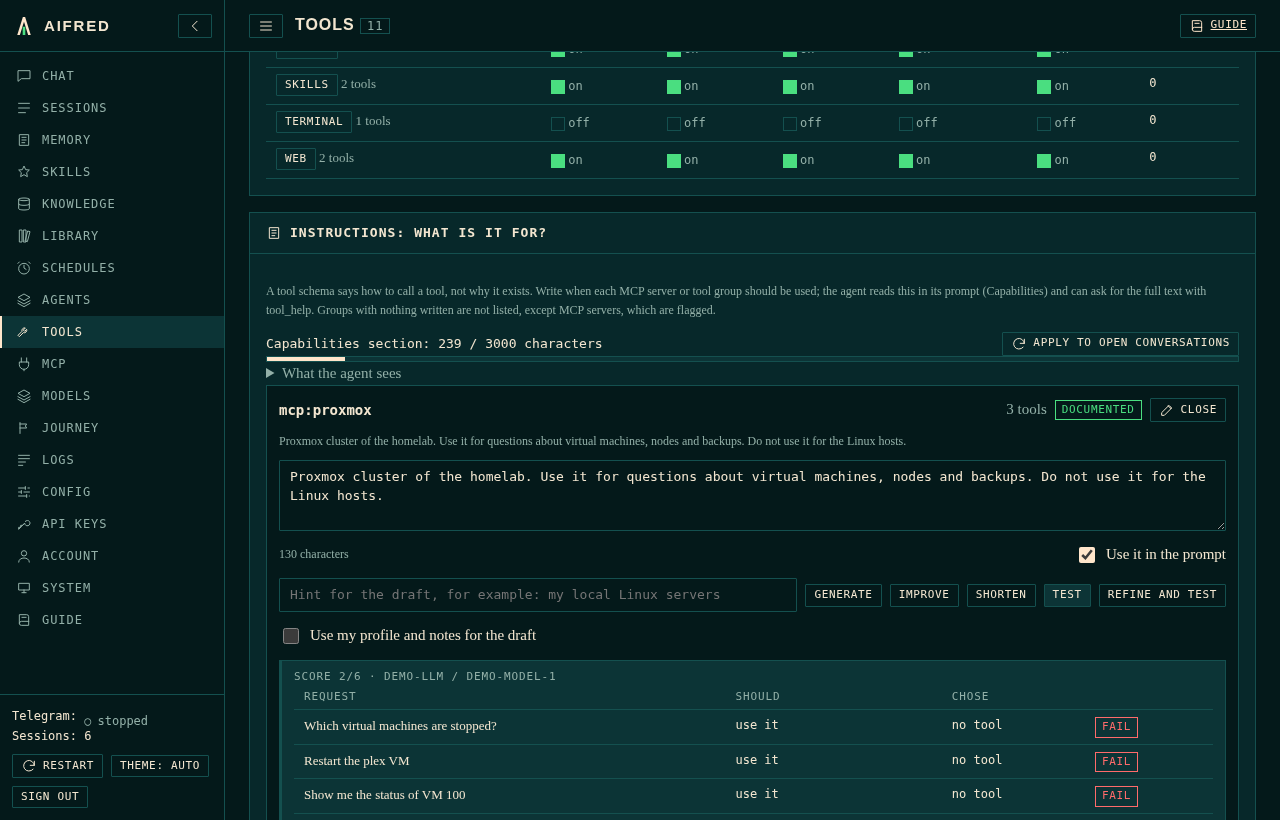
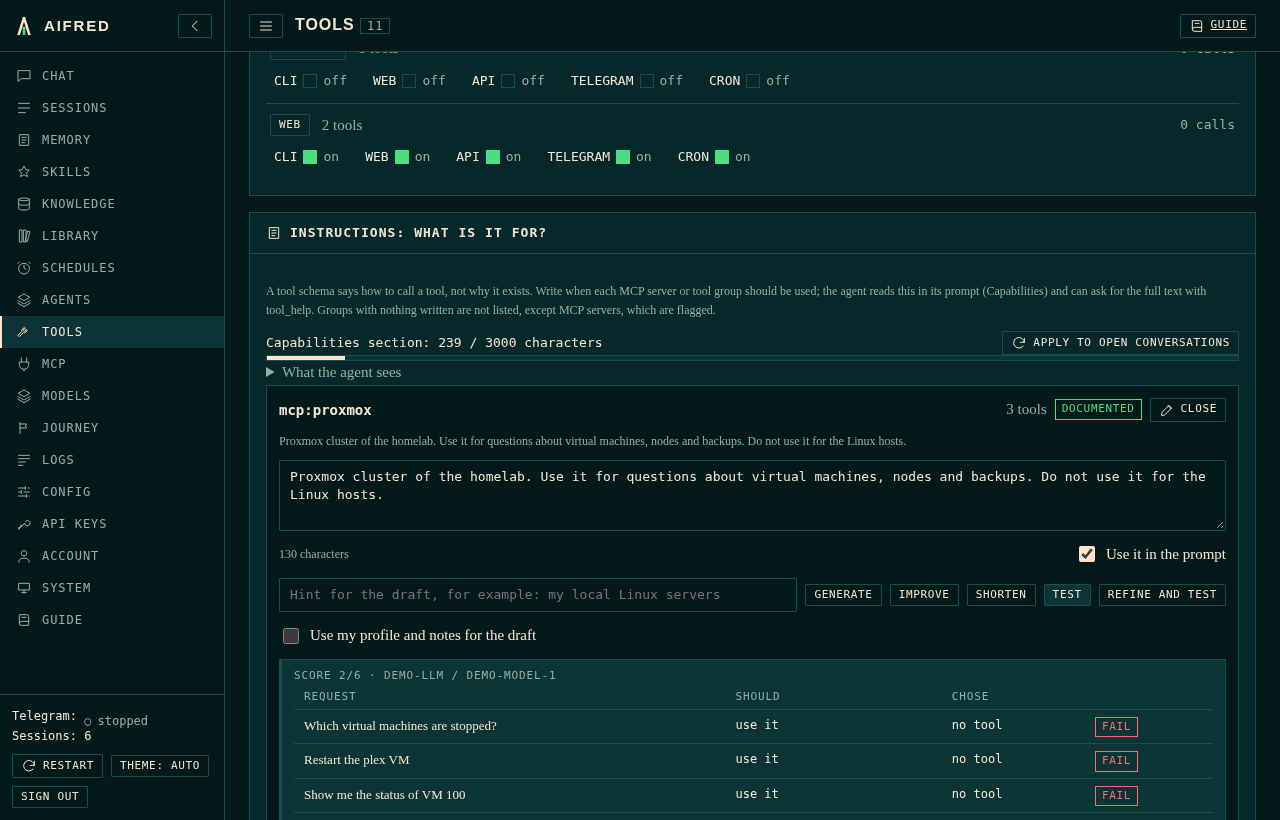
Responsive dashboard: expandable history lists (schedules, sub-agents, knowledge evaluations, session search), toolset cards on Tools; guide and screenshots; release 0.6.1

diff --git a/aifred/web/static/js/pages/knowledge.js b/aifred/web/static/js/pages/knowledge.js
@@ -1,5 +1,5 @@
 // Knowledge: collections, documents with state, upload, URLs, scan, re-index and a test search that shows how each hit was found (spec 9.4).
-import { ago, attempt, badge, bytes, button, busy, clear, dangerButton, del, empty, field, get, h, number, panel, post, put, skeleton, state, toast } from "../core.js";
+import { ago, attempt, badge, bytes, button, busy, clear, dangerButton, del, disclosure, empty, field, get, h, number, panel, post, put, skeleton, state, toast } from "../core.js";
 
 const STATUS_KIND = { ready: "ok", queued: "", indexing: "warn", waiting: "warn", partial: "warn", error: "err" };
 const ACCEPT = ".md,.txt,.rst,.html,.json,.csv,.yaml,.yml,.pdf,.docx,.xlsx,.pptx,.odt,.ods,.odp,.jpg,.jpeg,.png,.webp";
@@ -120,6 +120,7 @@ export default {
     function qualityPanel(collections, docs) {
       const box = h("div", { class: "stack" });
       const list = h("div", {}), results = h("div", {}), history = h("div", {}), suggestions = h("div", {});
+      const openRuns = new Set();   // evaluation rows whose details are open, kept across redraws
       const question = h("input", { type: "text", placeholder: "A question the documents should answer", maxlength: "300", "aria-label": "Question" });
       const source = h("input", { type: "text", placeholder: "Which document (name or part of it)", maxlength: "300", list: "golden-sources", "aria-label": "Expected document" });
       const phrase = h("input", { type: "text", placeholder: "Optional: a phrase the passage must contain", maxlength: "200", "aria-label": "Expected phrase" });
@@ -143,9 +144,15 @@ export default {
         clear(history);
         if (!rows.length) return;
         const rank = (r, i) => { const before = rows.slice(i + 1).find((x) => x.variant === r.variant && x.k === r.k); return before ? r.recall - before.recall : null; };
-        history.append(h("div", { class: "label" }, "Earlier runs"), h("table", {}, h("thead", {}, h("tr", {}, ["When", "Label", "Search", "Counted", "Recall", "MRR", "Questions"].map((x) => h("th", {}, x)))),
-          h("tbody", {}, rows.slice(0, 16).map((r, i) => { const d = rank(r, i); return h("tr", {}, h("td", {}, ago(r.ts)), h("td", {}, r.label || "–"), h("td", { class: "mono" }, r.variant), h("td", {}, `top ${r.k}`),
-            h("td", { class: "mono" }, pct(r.recall), d === null || d === 0 ? "" : h("span", { class: d > 0 ? "good" : "bad" }, ` ${d > 0 ? "▲" : "▼"}${Math.abs(Math.round(d * 100))}`)), h("td", { class: "mono" }, r.mrr.toFixed(2)), h("td", {}, String(r.total))); }))));
+        history.append(h("div", { class: "label" }, "Earlier runs"), ...rows.slice(0, 16).map((r, i) => {
+          const d = rank(r, i);
+          const key = `${r.ts}:${r.variant}:${r.k}`;
+          return disclosure(key, openRuns,
+            [h("span", { class: "muted" }, ago(r.ts)), h("span", {}, r.label || "–"), h("span", { class: "mono" }, r.variant), h("span", { class: "mono" }, `top ${r.k}`),
+              h("span", { class: "mono" }, pct(r.recall), d === null || d === 0 ? "" : h("span", { class: d > 0 ? "good" : "bad" }, ` ${d > 0 ? "▲" : "▼"}${Math.abs(Math.round(d * 100))}`)), h("span", { class: "mono" }, `MRR ${r.mrr.toFixed(2)}`)],
+            () => [h("div", { class: "hint" }, `${r.total} questions`),
+              r.misses.length ? h("div", {}, h("span", { class: "label" }, "Missed"), h("div", { class: "pre" }, r.misses.join("\n"))) : h("div", { class: "hint" }, "Nothing missed.")]);
+        }));
       };
       const add = button("Add question", async () => {
         if (!question.value.trim()) return;

diff --git a/aifred/web/static/js/pages/tools.js b/aifred/web/static/js/pages/tools.js
@@ -17,21 +17,21 @@ export default {
 
     function draw() {
       clear(body);
-      const rows = [];
-      for (const ts of data.toolsets) {
-        rows.push(h("tr", { class: "row-hover" },
-          h("td", {}, h("button", { class: "btn btn-sm", type: "button", "aria-expanded": String(open.has(ts.name)), onclick: () => { open.has(ts.name) ? open.delete(ts.name) : open.add(ts.name); draw(); } }, ts.name), " ", h("span", { class: "muted" }, `${ts.tools.length} tools`)),
-          ...data.gateways.map((g) => h("td", {}, h("button", {
+      const cards = data.toolsets.map((ts) => {
+        const isOpen = open.has(ts.name);
+        return h("div", { class: "tool-card" },
+          h("div", { class: "tool-card-head" },
+            h("button", { class: "btn btn-sm", type: "button", "aria-expanded": String(isOpen), onclick: () => { isOpen ? open.delete(ts.name) : open.add(ts.name); draw(); } }, ts.name),
+            h("span", { class: "muted" }, `${ts.tools.length} tools`),
+            h("span", { class: "mono muted grow" }, `${number(ts.calls)} calls`)),
+          h("div", { class: "tool-card-gw" }, data.gateways.map((g) => h("button", {
             class: "switch-btn", type: "button", role: "switch", "aria-checked": String(Boolean(ts.enabled[g])), "aria-label": `${ts.name} for ${g}`, title: `Turn ${ts.name} ${ts.enabled[g] ? "off" : "on"} for ${g}`,
             onclick: async () => { if (await attempt(() => put(`/api/toolsets/${encodeURIComponent(ts.name).replace(/%3A/gi, ":")}`, { gateways: [g], on: !ts.enabled[g] }))) { data = await get("/api/tools"); draw(); } },
-          }, h("span", { class: `switch${ts.enabled[g] ? " on" : ""}` }), " ", h("span", { class: "muted mono" }, ts.enabled[g] ? "on" : "off")))),
-          h("td", { class: "mono" }, number(ts.calls))));
-        if (open.has(ts.name)) {
-          rows.push(h("tr", {}, h("td", { colspan: String(data.gateways.length + 2) }, ts.tools.map((t) => h("div", { class: "row" },
-            h("span", { class: "mono" }, t.name), t.restricted_ok ? badge("open bot ok") : null, !t.available ? badge("not available now", "warn") : null, h("span", { class: "muted" }, t.description), h("span", { class: "mono" }, `${t.calls} calls`))))));
-        }
-      }
-      body.append(panel("Toolsets", "tools", data.toolsets.length ? h("table", {}, h("thead", {}, h("tr", {}, ["Toolset", ...data.gateways, "Calls"].map((x) => h("th", {}, x)))), h("tbody", {}, rows)) : empty("No tool registered.")));
+          }, h("span", { class: "mono" }, g), " ", h("span", { class: `switch${ts.enabled[g] ? " on" : ""}` }), " ", h("span", { class: "muted mono" }, ts.enabled[g] ? "on" : "off")))),
+          isOpen ? h("div", { class: "tool-detail" }, ts.tools.map((t) => h("div", { class: "row" },
+            h("span", { class: "mono" }, t.name), t.restricted_ok ? badge("open bot ok") : null, !t.available ? badge("not available now", "warn") : null, h("span", { class: "muted" }, t.description), h("span", { class: "mono" }, `${t.calls} calls`)))) : null);
+      });
+      body.append(panel("Toolsets", "tools", data.toolsets.length ? h("div", { class: "tool-cards" }, cards) : empty("No tool registered.")));
     }
     // Instructions: what each MCP server, tool group and tool is for ------------------------------------
 

diff --git a/aifred/web/static/js/pages/agents.js b/aifred/web/static/js/pages/agents.js
@@ -2,7 +2,7 @@
 import { saveButton } from "../libsave.js";
 import { toolsetSwitches } from "../toolsets.js";
 import { assistButtons } from "../assist.js";
-import { attempt, badge, busy, button, clear, dangerButton, del, empty, field, get, h, panel, post, put, skeleton, ago } from "../core.js";
+import { attempt, badge, busy, button, clear, dangerButton, del, disclosure, empty, field, get, h, panel, post, put, skeleton, ago } from "../core.js";
 
 const STATUS = { ok: "ok", error: "err", running: "warn" };
 
@@ -11,6 +11,7 @@ export default {
     let editing = null;      // agent name being edited, "" for a new one
     let opened = null;       // agent whose history is open
     let testing = null;      // agent with the test box open
+    const openRuns = new Set();   // runs whose details are open, kept across redraws
     const body = h("div", {});
     root.append(body);
 
@@ -66,12 +67,14 @@ export default {
       clear(into);
       if (!runs.length) into.append(h("div", { class: "hint" }, "No run yet."));
       for (const r of runs) {
-        into.append(h("div", { class: "item" },
-          h("div", { class: "item-head" }, badge(r.status, STATUS[r.status] || ""), h("span", { class: "muted" }, ago(r.started)), r.tokens ? badge(`${r.tokens} tokens`) : null, h("span", { class: "mono muted" }, r.session_id)),
-          h("div", { class: "hint" }, `task: ${r.task.slice(0, 300)}`),
-          r.error ? h("div", { class: "notice err" }, r.error) : null,
-          r.output ? h("div", { class: "pre" }, r.output) : null,
-          r.output && r.status === "ok" ? saveButton(() => ({ content: r.output, prompt: r.task, source: "agent", sourceRef: r.session_id })) : null));
+        const key = `${name}:${r.started}:${r.session_id}`;
+        into.append(disclosure(key, openRuns,
+          [badge(r.status, STATUS[r.status] || ""), h("span", { class: "muted" }, ago(r.started)), r.tokens ? badge(`${r.tokens} tokens`) : null, h("span", { class: "disc-preview" }, (r.error || r.output || r.task).split("\n")[0].slice(0, 160))],
+          () => [h("div", { class: "hint" }, `task: ${r.task.slice(0, 300)}`),
+            r.error ? h("div", { class: "notice err" }, r.error) : null,
+            r.output ? h("div", { class: "pre" }, r.output) : null,
+            h("div", { class: "mono muted" }, r.session_id),
+            r.output && r.status === "ok" ? saveButton(() => ({ content: r.output, prompt: r.task, source: "agent", sourceRef: r.session_id })) : null]));
       }
     }
 

diff --git a/aifred/web/static/js/pages/sessions.js b/aifred/web/static/js/pages/sessions.js
@@ -1,5 +1,5 @@
 // Sessions: overview of the platforms and recent conversations, and full-text history search (spec 10.5).
-import { ago, attempt, badge, button, clear, dangerButton, del, empty, field, get, h, icon, number, panel, put, skeleton, store } from "../core.js";
+import { ago, attempt, badge, button, clear, dangerButton, del, disclosure, empty, field, get, h, icon, number, panel, put, skeleton, store } from "../core.js";
 import { marked } from "../md.js";
 
 export function exportMarkdown(id, messages) {
@@ -24,6 +24,7 @@ export default {
     let view = store("sessions.view") === "history" ? "history" : "overview";
     let source = "";
     let query = "";
+    const openHits = new Set();   // search hits whose text is open, kept across redraws
     const body = h("div", {});
     root.append(skeleton(4));
 
@@ -86,8 +87,10 @@ export default {
         const rows = await attempt(() => get(`/api/search?q=${encodeURIComponent(query)}&limit=50${src ? `&source=${encodeURIComponent(src)}` : ""}`)) || [];
         if (!rows.length) results.append(empty("Nothing found."));
         for (const r of rows) {
-          results.append(h("div", { class: "srow row-hover" }, h("div", { class: "main-col", role: "link", tabindex: "0", onclick: () => { location.hash = `#/chat?s=${encodeURIComponent(r.session_id)}`; } },
-            h("div", { class: "title" }, r.title || r.session_id), h("div", { class: "mono muted" }, `${r.source} · ${r.role} · ${ago(r.ts)}`), h("div", {}, marked(r.snippet)))));
+          const key = `${r.session_id}:${r.ts}:${r.role}`;
+          results.append(disclosure(key, openHits,
+            [h("span", { class: "disc-title" }, r.title || r.session_id), h("span", { class: "mono muted" }, `${r.source} · ${r.role} · ${ago(r.ts)}`)],
+            () => [h("div", {}, marked(r.snippet)), button("Open conversation", () => { location.hash = `#/chat?s=${encodeURIComponent(r.session_id)}`; }, { small: true })]));
         }
       };
       input.addEventListener("keydown", (e) => { if (e.key === "Enter") run(); });

diff --git a/aifred/web/static/js/pages/schedules.js b/aifred/web/static/js/pages/schedules.js
@@ -1,6 +1,6 @@
 // Schedules: recurring tasks the agent runs on its own, with the result delivered on Telegram.
 import { toolsetSwitches } from "../toolsets.js";
-import { attempt, badge, busy, button, clear, dangerButton, del, empty, field, get, h, panel, post, put, skeleton, ago } from "../core.js";
+import { attempt, badge, busy, button, clear, dangerButton, del, disclosure, empty, field, get, h, panel, post, put, skeleton, ago } from "../core.js";
 
 const STATUS = { ok: "ok", error: "err", running: "warn", missed: "warn" };
 
@@ -8,6 +8,7 @@ export default {
   async render(root, ctx) {
     let editing = null;      // task name being edited, "" for a new one
     let opened = null;       // task whose history is open
+    const openRuns = new Set();   // runs whose details are open, kept across redraws
     const body = h("div", {});
     root.append(body);
 
@@ -52,10 +53,10 @@ export default {
       clear(into);
       if (!runs.length) into.append(h("div", { class: "hint" }, "No run yet."));
       for (const r of runs) {
-        into.append(h("div", { class: "item" },
-          h("div", { class: "item-head" }, badge(r.status, STATUS[r.status] || ""), h("span", { class: "muted" }, ago(r.started)), r.delivered ? badge("delivered", "ok") : null, r.session_id ? h("span", { class: "mono muted" }, r.session_id) : null),
-          r.error ? h("div", { class: "notice err" }, r.error) : null,
-          r.output ? h("div", { class: "pre" }, r.output) : null));
+        const key = `${name}:${r.started}:${r.session_id}`;
+        into.append(disclosure(key, openRuns,
+          [badge(r.status, STATUS[r.status] || ""), h("span", { class: "muted" }, ago(r.started)), r.delivered ? badge("delivered", "ok") : null, h("span", { class: "disc-preview" }, (r.error || r.output || "").split("\n")[0].slice(0, 160))],
+          () => [r.error ? h("div", { class: "notice err" }, r.error) : null, r.output ? h("div", { class: "pre" }, r.output) : null, r.session_id ? h("div", { class: "mono muted" }, r.session_id) : null]));
       }
     }
 

diff --git a/aifred/web/static/app.css b/aifred/web/static/app.css
@@ -282,3 +282,26 @@ mark { background: var(--surface-2); color: var(--accent); font-weight: 700; }
 .save-form { display: grid; gap: 8px; margin-top: 8px; padding: 10px; border: 1px solid var(--line); background: var(--surface-2); }
 .save-form .row > input { flex: 1 1 12em; }
 .msg-actions { margin-top: 6px; }
+
+/* Expandable history rows */
+.disc { border-bottom: 1px solid var(--line); min-width: 0; }
+.disc:last-child { border-bottom: 0; }
+.disc-head { display: flex; align-items: center; gap: 8px; flex-wrap: wrap; width: 100%; padding: 8px 4px; border: 0; background: none; text-align: left; cursor: pointer; }
+.disc-head:hover { background: var(--surface-2); }
+.disc-head .caret { flex: none; width: 1em; font: 12px var(--font-mono); color: var(--muted); }
+.disc-preview { flex: 1 1 12em; min-width: 0; overflow: hidden; text-overflow: ellipsis; white-space: nowrap; color: var(--muted); font-size: 13px; }
+.disc-body { display: grid; gap: 8px; min-width: 0; padding: 4px 4px 14px 25px; }
+.disc-body[hidden] { display: none; }
+.disc-body .pre { max-height: 480px; overflow: auto; }
+
+/* Toolset cards (Tools page) */
+.tool-cards { display: grid; min-width: 0; }
+.tool-card { padding: 10px 4px; border-bottom: 1px solid var(--line); display: grid; gap: 8px; min-width: 0; }
+.tool-card:last-child { border-bottom: 0; }
+.tool-card-head { display: flex; align-items: center; flex-wrap: wrap; gap: 8px 12px; }
+.tool-card-head .grow { text-align: right; }
+.tool-card-gw { display: flex; flex-wrap: wrap; gap: 8px 18px; }
+.tool-card-gw .switch-btn { display: inline-flex; align-items: center; gap: 6px; }
+.tool-detail { display: grid; gap: 6px; padding-top: 4px; }
+.tool-detail .row { align-items: baseline; }
+.disc-title { font-size: 15px; font-family: var(--font-display); overflow-wrap: anywhere; flex: 1 1 14em; min-width: 0; }

diff --git a/aifred/web/static/js/core.js b/aifred/web/static/js/core.js
@@ -176,6 +176,24 @@ export function badge(text, kind = "") { return h("span", { class: `tag ${kind}`
 
 export function empty(text, action) { return h("div", { class: "empty" }, h("p", {}, text), action); }
 
+/** One row of a history: the head is a button that opens the body in place. `open` is a Set the page keeps, so a redraw keeps the row open. */
+export function disclosure(key, open, head, body) {
+  const panel = h("div", { class: "disc-body", hidden: !open.has(key) });
+  const fill = () => { for (const node of [body()].flat(Infinity)) if (node) panel.append(node); };
+  const caret = h("span", { class: "caret", "aria-hidden": "true" }, open.has(key) ? "▾" : "▸");
+  const toggle = h("button", { class: "disc-head", type: "button", "aria-expanded": String(open.has(key)) }, caret, head);
+  if (open.has(key)) fill();
+  toggle.addEventListener("click", () => {
+    const now = !open.has(key);
+    if (now) open.add(key); else open.delete(key);
+    if (now && !panel.childElementCount) fill();
+    panel.hidden = !now;
+    caret.textContent = now ? "▾" : "▸";
+    toggle.setAttribute("aria-expanded", String(now));
+  });
+  return h("div", { class: "disc" }, toggle, panel);
+}
+
 export function skeleton(lines = 3) { return h("div", { class: "skeleton", "aria-hidden": "true" }, Array.from({ length: lines }, () => h("div", { class: "skeleton-line" }))); }
 
 // Formatting ---------------------------------------------------------------------------------------

diff --git a/tests/test_telegram.py b/tests/test_telegram.py
@@ -242,6 +242,7 @@ async def test_the_gateway_is_running_as_soon_as_the_token_works(bot: TelegramGa
     tg.hold = 6.0  # the first getUpdates stays open like a real long poll
     await bot.start()
     await until(lambda: bot.status()["state"] == "running", seconds=3)  # long before that poll returns
+    await until(lambda: tg.offsets, seconds=3)  # the request itself may reach the fake server a moment later
     assert bot.status()["bot"] == "aifred_bot" and tg.offsets == [0]
 
 

diff --git a/aifred/__init__.py b/aifred/__init__.py
@@ -1,3 +1,3 @@
 """AIFRED: a lean, self-hosted personal AI agent."""
 
-__version__ = "0.6.0"
+__version__ = "0.6.1"

diff --git a/docs/deploy.md b/docs/deploy.md
@@ -65,10 +65,10 @@ Add servers on the dashboard (MCP page, phase 6) or with `PUT /api/mcp/servers/<
 
 ## Using the published image
 
-The image is on Docker Hub as [`lordraw/aifred`](https://hub.docker.com/r/lordraw/aifred) (tags `0.6.0` and `latest`, linux/amd64; `0.5.0`, `0.4.1`, `0.4.0`, `0.3.0`, `0.2.1`, `0.2.0`, `0.1.1`, `0.1.0` and `0.1.0.dev0` are earlier builds). To run the stack from it instead of building:
+The image is on Docker Hub as [`lordraw/aifred`](https://hub.docker.com/r/lordraw/aifred) (tags `0.6.1` and `latest`, linux/amd64; `0.6.0`, `0.5.0`, `0.4.1`, `0.4.0`, `0.3.0`, `0.2.1`, `0.2.0`, `0.1.1`, `0.1.0` and `0.1.0.dev0` are earlier builds). To run the stack from it instead of building:
 
 ```bash
-echo 'AIFRED_IMAGE=lordraw/aifred' >> .env     # and AIFRED_VERSION=0.6.0 to pin a version
+echo 'AIFRED_IMAGE=lordraw/aifred' >> .env     # and AIFRED_VERSION=0.6.1 to pin a version
 AIFRED_PULL=1 make docker/run                  # pulls the image instead of building it
 ```
 
@@ -147,7 +147,7 @@ Read by **docker compose** and the scripts from `.env` (or the shell; the shell 
 | `AIFRED_OPENBAO_ADDR`, `AIFRED_OPENBAO_MOUNT`, `AIFRED_OPENBAO_KEY` | `http://openbao:8200`, `transit`, `aifred` | Where and how AIFRED reaches OpenBao |
 | `AIFRED_BIND`, `AIFRED_PORT` | `127.0.0.1`, `8700` | Interface and port published on the host |
 | `AIFRED_MEM_LIMIT` | `1g` | Memory limit of the AIFRED container. The knowledge base caches vectors in memory (`RAG_CACHE_MB`, 512 MB by default; 307 MB for 100,000 chunks of 768 dimensions) and the document parsers run inside the same limit. Raise this together with `RAG_CACHE_MB` and `RAG_MAX_CHUNKS` |
-| `AIFRED_VERSION` | `0.6.0` | Image tag |
+| `AIFRED_VERSION` | `0.6.1` | Image tag |
 | `OPENBAO_VERSION`, `SEARXNG_VERSION` | `2.7.1`, `2026.10.24-ef0ec03da` | Image tags of the other services |
 | `SEARXNG_SECRET` | generated | SearXNG server secret (profile `search`) |
 | `AIFRED_SETUP_ADMIN_CREATED` | set by `setup.sh` | Marker that the admin exists; do not edit |
@@ -185,7 +185,7 @@ Passed into the **container**: exactly the `AIFRED_*` variables listed in `docke
 ```bash
 docker create --name aifred-live --entrypoint sh --user 10001 -e HOME=/tmp --tmpfs /tmp:size=128m,mode=1777 \
   -e AIFRED_TEST_OPENBAO_ADDR=http://openbao:8200 -e AIFRED_TEST_OPENBAO_ROLE_ID -e AIFRED_TEST_OPENBAO_SECRET_ID \
-  -v "$PWD/tests:/t/tests:ro" -v "$PWD/aifred:/t/aifred:ro" -w /t aifred:0.6.0 \
+  -v "$PWD/tests:/t/tests:ro" -v "$PWD/aifred:/t/aifred:ro" -w /t aifred:0.6.1 \
   -c 'pip install -q --target /tmp/pt pytest==9.1.1 && PYTHONPATH=/t:/tmp/pt python -m pytest -q -p no:cacheprovider tests/test_openbao_live.py'
 docker network connect aifred_vault aifred-live && docker start -a aifred-live; docker rm aifred-live
 ```

diff --git a/aifred/web/static/guide/it/tools.md b/aifred/web/static/guide/it/tools.md
@@ -2,14 +2,14 @@
 
 Quali strumenti l'assistente può usare su ogni gateway, quante volte sono stati usati e *a cosa serve* ogni gruppo di strumenti.
 
-![La matrice dei toolset](/static/guide/img/tools-1-matrix.png)
+![Le schede dei toolset](/static/guide/img/tools-1-matrix.png)
 
-## La matrice
+## Le schede dei toolset
 
-- **Una riga per toolset**, con il numero di strumenti. Un clic sul nome elenca gli strumenti: ciascuno con la descrizione, un badge `open bot ok` se può usarlo il bot Telegram aperto, `not available now` quando richiede qualcosa che non è impostato, e quante chiamate ha avuto dall'avvio del server.
-- **Una colonna per gateway**: *CLI*, *WEB* (la chat di questa dashboard), *API*, *TELEGRAM* e *CRON* (attività pianificate).
+- **Una scheda per toolset**, con il nome, il numero di strumenti e le chiamate dall'avvio del server. Un clic sul nome elenca gli strumenti: ciascuno con la descrizione, un badge `open bot ok` se può usarlo il bot Telegram aperto, e `not available now` quando richiede qualcosa che non è impostato.
+- **Un interruttore per gateway** nella scheda: *CLI*, *WEB* (la chat di questa dashboard), *API*, *TELEGRAM* e *CRON* (attività pianificate).
 - **Clicca un interruttore** per attivare o disattivare un toolset per quel gateway. Gli elenchi della pagina [Config](#/guide?s=config) vengono aggiornati per te. Un gateway che non aveva un elenco proprio ne riceve una copia di quello condiviso con la tua modifica, così gli altri non si muovono.
-- La colonna **Calls** conta gli usi dall'avvio del server.
+- Le chiamate sono il contatore in alto a destra di ogni scheda: conta gli usi dall'avvio del server.
 
 ### I toolset
 `memory` (appunti e profilo), `skills`, `search` (cerca nelle conversazioni passate) e `web` (ricerca sul web e lettura di pagine), `file` (leggere e scrivere nella cartella di lavoro), `terminal` (comandi di shell; spento di default e da usare con cautela), `knowledge` (i tuoi documenti), `library` (le risposte che hai salvato: `library_search`, `library_get`, `library_save`), `cron` (attività pianificate), `agents` (delegare ai sub-agenti) e un `mcp:<server>` per ogni server MCP.

diff --git a/aifred/web/static/guide/en/tools.md b/aifred/web/static/guide/en/tools.md
@@ -2,14 +2,14 @@
 
 Which tools the assistant may use on each gateway, how often they were used, and what each group of tools is *for*.
 
-![The toolset matrix](/static/guide/img/tools-1-matrix.png)
+![The toolset cards](/static/guide/img/tools-1-matrix.png)
 
-## The matrix
+## The toolset cards
 
-- **One row per toolset**, with the number of tools in it. Click the name to list its tools: each with its description, a badge `open bot ok` if it may be used by the open Telegram bot, `not available now` when it needs something that is not set, and how many calls it had since the server started.
-- **One column per gateway**: *CLI*, *WEB* (this dashboard's chat), *API*, *TELEGRAM* and *CRON* (scheduled tasks).
+- **One card per toolset**, with its name, the number of tools in it and its calls since the server started. Click the name to list its tools: each with its description, a badge `open bot ok` if it may be used by the open Telegram bot, and `not available now` when it needs something that is not set.
+- **One switch per gateway** on the card: *CLI*, *WEB* (this dashboard's chat), *API*, *TELEGRAM* and *CRON* (scheduled tasks).
 - **Click a switch** to turn a toolset on or off for that gateway. The lists on the [Config](#/guide?s=config) page are updated for you. A gateway that had no list of its own gets a copy of the shared one with your change, so the other gateways do not move.
-- The **Calls** column counts uses since the server started.
+- The calls on the right of each card count uses since the server started.
 
 ### The toolsets
 `memory` (notes and profile), `skills`, `search` (search the past conversations) and `web` (web search and page fetch), `file` (read and write in the workspace), `terminal` (shell commands; off by default and handle with care), `knowledge` (your documents), `library` (answers you saved: `library_search`, `library_get`, `library_save`), `cron` (scheduled tasks), `agents` (delegate to sub-agents) and one `mcp:<server>` for each MCP server.
